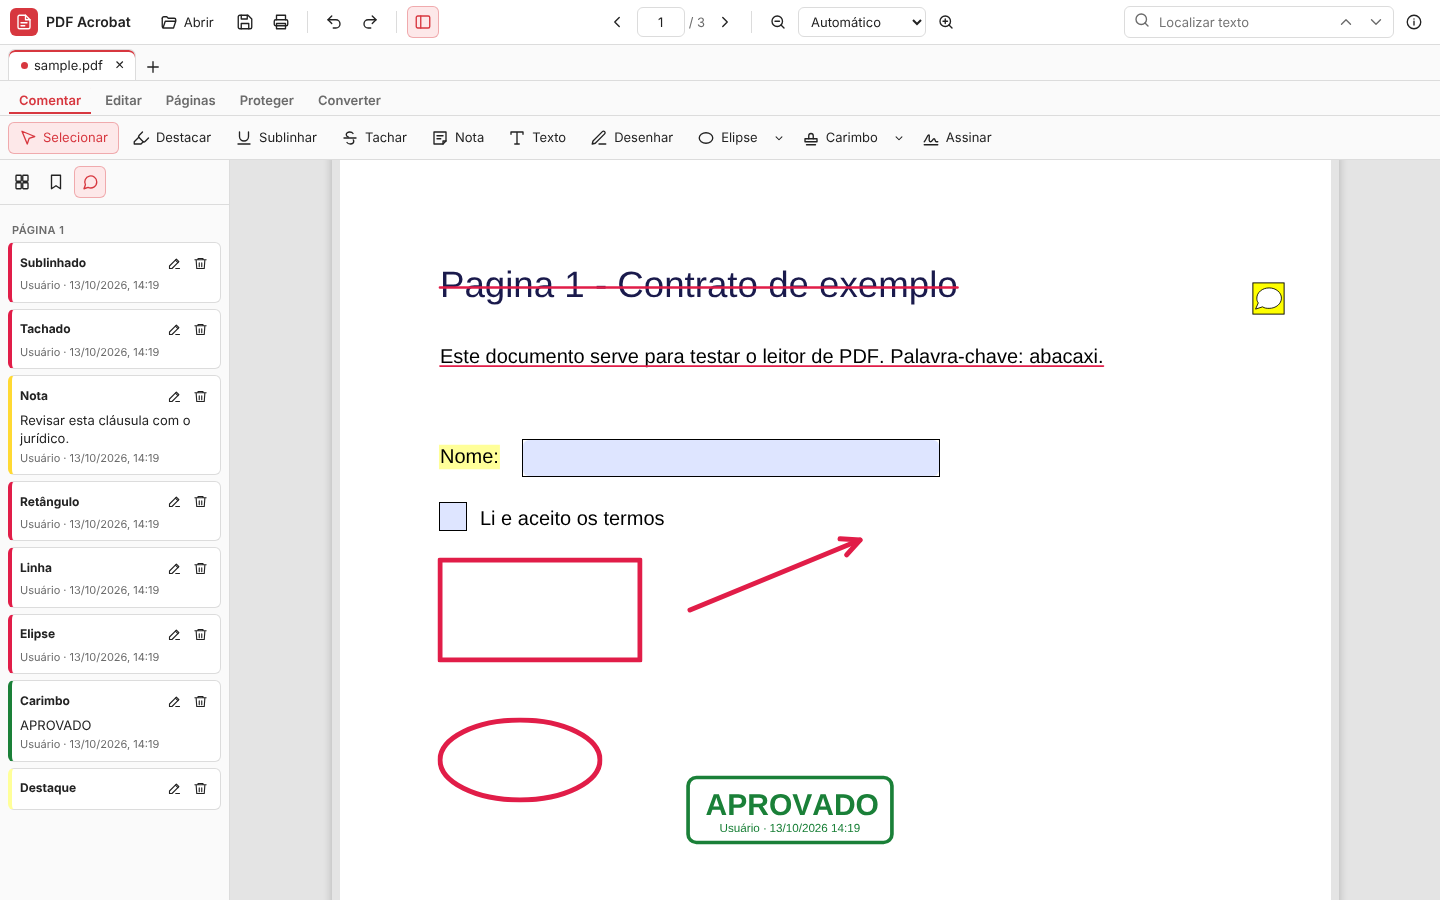
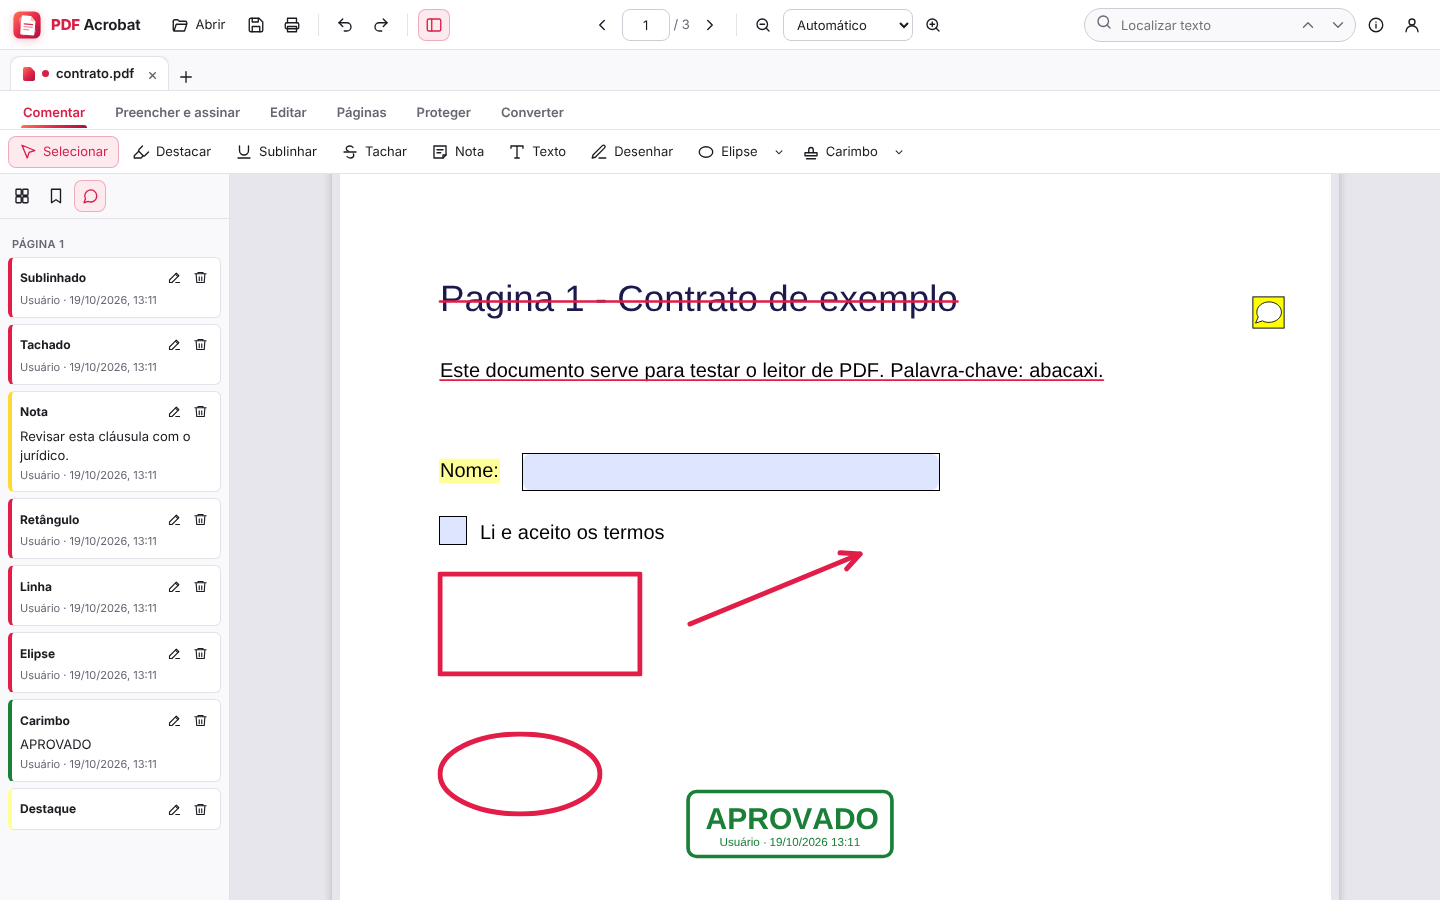
README: telas novas, tema escuro e créditos da fonte Inter
Imagens novas do app com a identidade visual (documento com comentários,
tela inicial e tema escuro com a janela de salvar as alterações), o logo
no topo, o script dos ícones na estrutura e no desenvolvimento e a fonte
Inter na licença.

diff --git a/README.md b/README.md
@@ -1,8 +1,15 @@
+<img src="public/icons/logo.svg" width="80" alt="Logo do PDF Acrobat">
+
 # PDF Acrobat
 
 Leitor e editor de PDF para Windows, macOS, Linux, navegador e celular, inspirado no Adobe Acrobat.
 
 ![Tela do PDF Acrobat](docs/screenshot.png)
+
+<p>
+  <img src="docs/inicio.png" width="49%" alt="Tela inicial">
+  <img src="docs/tema-escuro.png" width="49%" alt="Tema escuro, com a janela de salvar as alterações ao fechar">
+</p>
 
 ## O que ele faz
 
@@ -17,7 +24,7 @@ Leitor e editor de PDF para Windows, macOS, Linux, navegador e celular, inspirad
 | **Converter** | Para imagens (PNG/JPG), texto (.txt) e Word (.docx); comprimir o PDF; **reparar** PDFs danificados — download interrompido, índice, catálogo ou árvore de páginas estragados, páginas sem tamanho, conteúdo com a compressão danificada — recuperando o que dá e mostrando o que foi consertado (um arquivo que nem abre já oferece o reparo, e o original não muda; um PDF que abre aqui mas dá erro em outros programas ou sites sai com estrutura e índice novos); reconhecer texto em páginas escaneadas (OCR, em português e inglês, sem internet); comparar duas versões, com as diferenças destacadas |
 | **Criar** | Combinar vários PDFs e imagens num arquivo só, ou criar um PDF a partir de imagens |
 | **Imprimir** | Janela de impressão própria, como a do Acrobat, mostrando cada folha antes de imprimir: impressora, cópias, frente e verso e tons de cinza; páginas (todas, a atual, intervalos, só ímpares ou pares, ordem inversa); **Tamanho** (ajustar ao papel, tamanho real, reduzir as páginas grandes ou escala personalizada), **Pôster** (uma página dividida em várias folhas, com sobreposição, marcas de corte e rótulos), **Múltiplas** (2, 4, 6, 9, 16 ou colunas × linhas por folha, na ordem e com as bordas que quiser) e **Livreto** (folhas para dobrar ao meio, frente e verso, encadernação à esquerda ou à direita); papel, orientação, comentários e formulários; salvar as folhas como PDF. No app desktop a impressão vai direto para a impressora, vetorial, sem passar pela janela do sistema |
-| **Outros** | Desfazer e refazer, propriedades do documento, arquivos recentes, abrir PDFs com duplo clique, arrastar e soltar, tema claro e escuro |
+| **Outros** | Desfazer e refazer, propriedades do documento, arquivos recentes, abrir PDFs com duplo clique, arrastar e soltar, tema claro e escuro (acompanha o do sistema); visual próprio, com a fonte Inter e as janelas do próprio app — salvar as alterações ao fechar, avisos e Sobre —, iguais no Windows, no macOS, no Linux, no navegador e no Android |
 
 Os comentários, carimbos e formas são gravados como anotações PDF padrão e aparecem em qualquer leitor. Os documentos nunca saem do seu computador ou celular: tudo, inclusive o OCR, roda localmente.
 
@@ -130,6 +137,7 @@ electron/updater.cjs     atualização automática (procura, baixa e instala ver
 android/                 app Android (Capacitor); NativeFilesPlugin.java: salvar, abrir com, imprimir
 src/android.js           só no Android: botão voltar do sistema
 src/main.js              inicialização, ações, atalhos, arrastar e soltar, recentes
+src/ui.js                janelas do app (perguntas e avisos), indicador de processamento e mensagens
 src/tabs.js              abas (um visualizador do PDF.js por documento), desfazer/refazer, permissões
 src/tools.js             ferramentas na página: comentar, formas, carimbos, assinar, editar texto e imagens
 src/sidebar.js           miniaturas, marcadores e lista de comentários
@@ -152,8 +160,10 @@ src/pdf/repair.js        reparar: catálogo, árvore de páginas, tamanhos, refe
 src/pdf/textedit.js      linhas editáveis, escrever texto novo com a fonte do catálogo ou a original
 src/pdf/imposition.js    monta as folhas de impressão (tamanho, pôster, várias por folha, livreto)
 src/pdf/split.js         como dividir: intervalos, inícios de documento, tamanho de cada página
-public/                  manifesto e service worker da versão web; public/fonts: as fontes e suas licenças
+src/assets/              fonte Inter da interface
+public/                  manifesto e service worker da versão web; public/fonts: as fontes e suas licenças; public/icons: o logo e os ícones
 scripts/build-fonts.py   baixa as fontes do Google Fonts e monta o catálogo
+scripts/make-icons.cjs   desenha o logo e gera os ícones do computador, da web e do Android
 ```
 
 ## Desenvolvimento
@@ -168,6 +178,7 @@ npm run dist         # gera o instalador do sistema atual em release/
 npm run dist:win     # ou :mac / :linux
 npm run android      # copia a interface para o app Android (android/)
 python3 scripts/build-fonts.py   # refaz o catálogo de fontes (precisa de internet e de pip install fonttools brotli)
+npx electron scripts/make-icons.cjs   # refaz o logo e os ícones (no Linux sem tela: xvfb-run -a npx electron scripts/make-icons.cjs)
 cd android && ./gradlew assembleDebug   # APK de teste (precisa do JDK 21 e do Android SDK)
 ```
 
@@ -188,4 +199,4 @@ Projeto de [@Lucasbrandaocabral](https://github.com/Lucasbrandaocabral), desenvo
 
 ## Licença
 
-MIT. Usa [PDF.js](https://github.com/mozilla/pdf.js) (Apache-2.0), [pdf-lib](https://github.com/cantoo-scribe/pdf-lib) (MIT), [Tesseract.js](https://github.com/naptha/tesseract.js) (Apache-2.0), [signpdf](https://github.com/vbuch/node-signpdf) (MIT), [node-forge](https://github.com/digitalbazaar/forge) (BSD/GPL), [docx](https://github.com/dolanmiu/docx) (MIT), [jsdiff](https://github.com/kpdecker/jsdiff) (BSD), [fflate](https://github.com/101arrowz/fflate) (MIT), [Electron](https://www.electronjs.org/) (MIT), [Capacitor](https://capacitorjs.com/) (MIT) e [electron-updater](https://github.com/electron-userland/electron-builder) (MIT). Fontes da assinatura digitada: [Dancing Script](https://fonts.google.com/specimen/Dancing+Script), [Great Vibes](https://fonts.google.com/specimen/Great+Vibes) e [Caveat](https://fonts.google.com/specimen/Caveat) (OFL) e [Homemade Apple](https://fonts.google.com/specimen/Homemade+Apple) (Apache-2.0). Fontes do editor de texto: 127 famílias do [Google Fonts](https://fonts.google.com) (SIL Open Font License 1.1, Apache 2.0 e Ubuntu Font Licence), com os direitos autorais e a licença de cada uma em [`public/fonts/LICENSES.md`](public/fonts/LICENSES.md); leitura e embutimento com [fontkit](https://github.com/cantoo-scribe/fontkit) (MIT).
+MIT. Usa [PDF.js](https://github.com/mozilla/pdf.js) (Apache-2.0), [pdf-lib](https://github.com/cantoo-scribe/pdf-lib) (MIT), [Tesseract.js](https://github.com/naptha/tesseract.js) (Apache-2.0), [signpdf](https://github.com/vbuch/node-signpdf) (MIT), [node-forge](https://github.com/digitalbazaar/forge) (BSD/GPL), [docx](https://github.com/dolanmiu/docx) (MIT), [jsdiff](https://github.com/kpdecker/jsdiff) (BSD), [fflate](https://github.com/101arrowz/fflate) (MIT), [Electron](https://www.electronjs.org/) (MIT), [Capacitor](https://capacitorjs.com/) (MIT) e [electron-updater](https://github.com/electron-userland/electron-builder) (MIT). Fonte da interface: [Inter](https://rsms.me/inter/) (SIL Open Font License 1.1). Fontes da assinatura digitada: [Dancing Script](https://fonts.google.com/specimen/Dancing+Script), [Great Vibes](https://fonts.google.com/specimen/Great+Vibes) e [Caveat](https://fonts.google.com/specimen/Caveat) (OFL) e [Homemade Apple](https://fonts.google.com/specimen/Homemade+Apple) (Apache-2.0). Fontes do editor de texto: 127 famílias do [Google Fonts](https://fonts.google.com) (SIL Open Font License 1.1, Apache 2.0 e Ubuntu Font Licence), com os direitos autorais e a licença de cada uma em [`public/fonts/LICENSES.md`](public/fonts/LICENSES.md); leitura e embutimento com [fontkit](https://github.com/cantoo-scribe/fontkit) (MIT).
